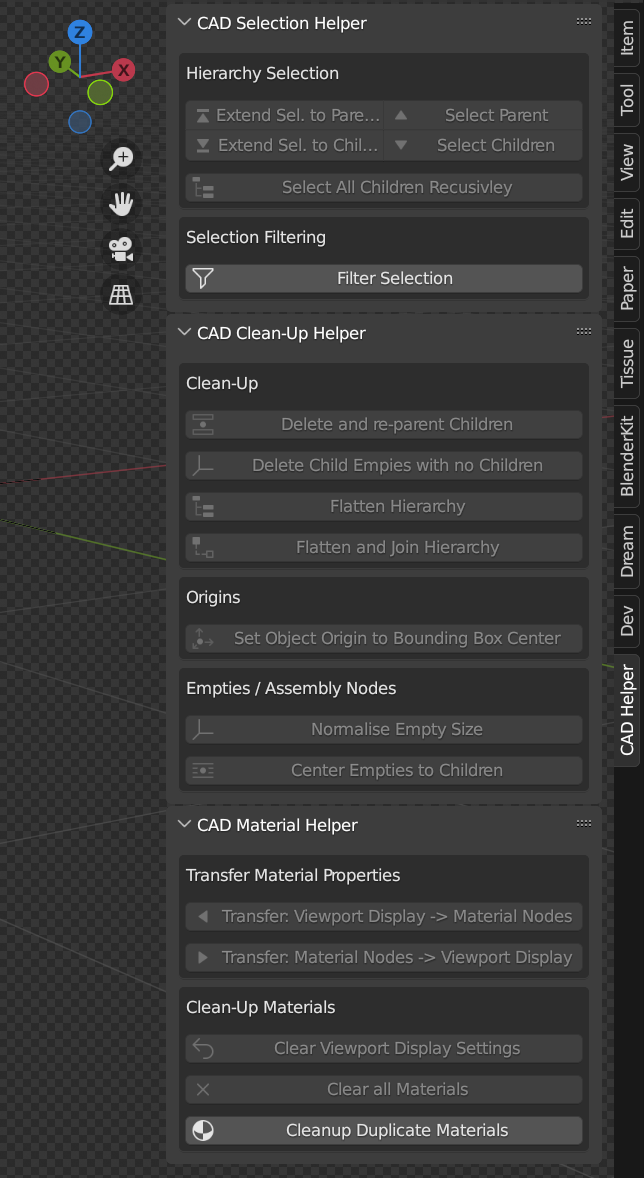
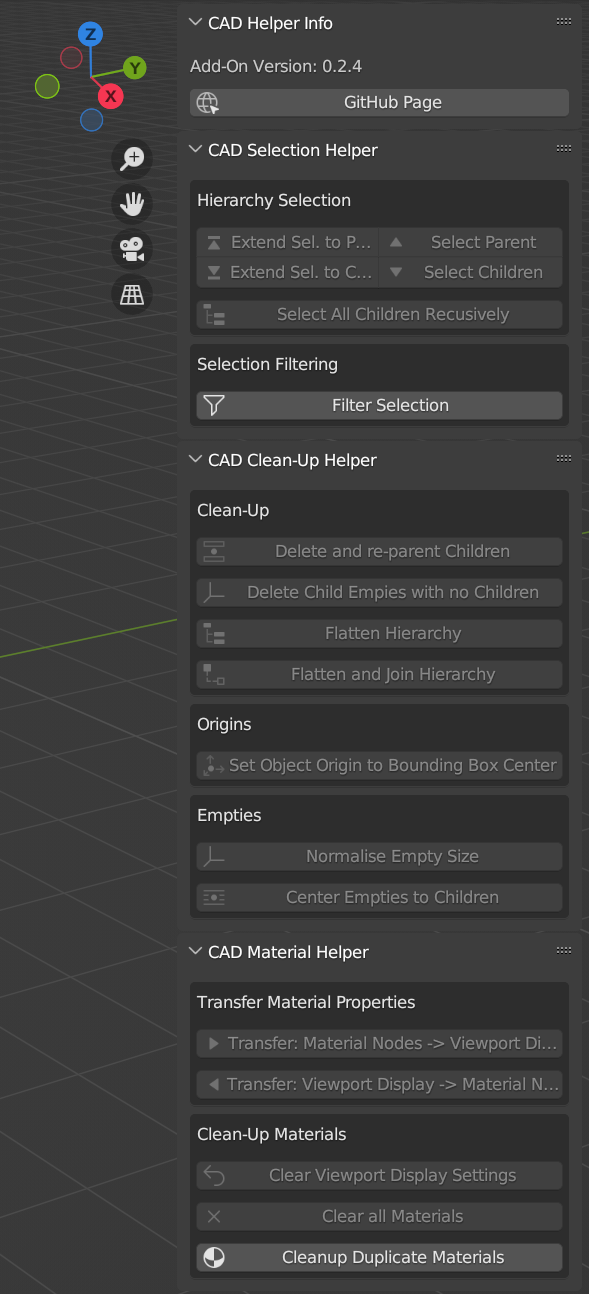
fixed bl_info error which broke the add-on

diff --git a/__init__.py b/__init__.py
@@ -6,12 +6,10 @@ import importlib
 bl_info = {
     "name": "CAD-Helper",
     "author": "A. R. Ammon",
-    "version": (0, 2, 3),
+    "version": (0, 2, 4),
     "blender": (3, 6, 0),
     "description": '''Adds additional object selection and deletion
-    functionality for hierarchically structured assemblies.
-    
-    GitHub Page: https://github.com/AchimA/CAD-Helper''',
+    functionality for hierarchically structured assemblies.''',
     "warning": "",
     "doc_url": "",
     'support': 'COMMUNITY',
